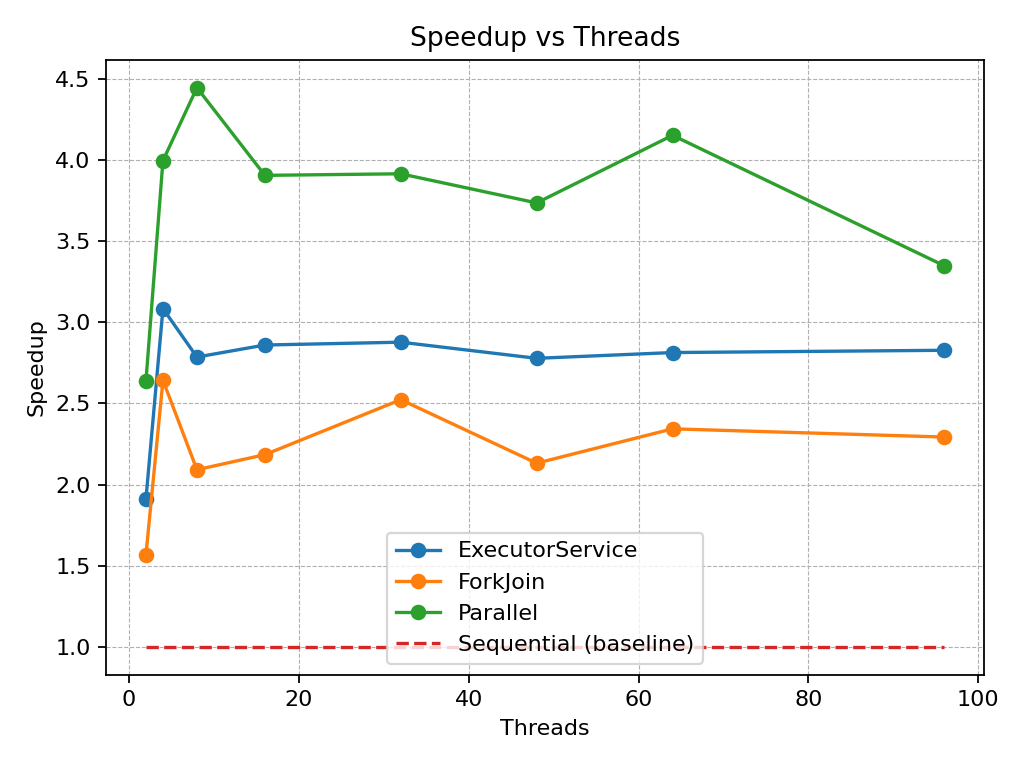
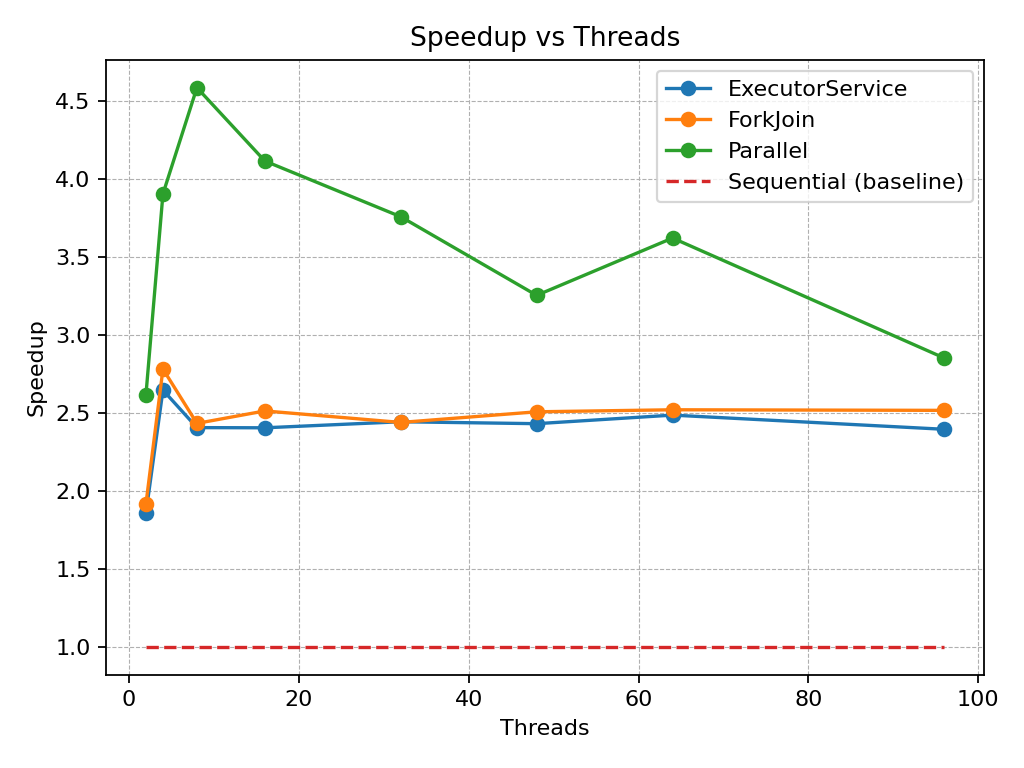
delete seqcutoff

diff --git a/lab2-skel/src/ForkJoinPoolSort.java b/lab2-skel/src/ForkJoinPoolSort.java
@@ -9,7 +9,6 @@ import java.util.concurrent.ForkJoinWorkerThread;
 public class ForkJoinPoolSort implements Sorter {
         public final int threads;
         private final ForkJoinPool pool;
-        private static final int SEQ_CUTOFF = 65536;
 
         public ForkJoinPoolSort(int threads) {
                 this.threads = Math.max(1, threads);
@@ -33,12 +32,19 @@ public class ForkJoinPoolSort implements Sorter {
         @Override
         public void sort(int[] arr) {
                 if (arr == null || arr.length <= 1) return;
-                pool.invoke(new Worker(arr, 0, arr.length - 1));
+                int d = floorLog2(threads);
+                pool.invoke(new Worker(arr, 0, arr.length - 1, d));
         }
 
         @Override
         public int getThreads() {
                 return threads;
+        }
+
+        private int floorLog2(int n) {
+                int lg = 0;
+                while ((n >>= 1) > 0) ++lg;
+                return lg;
         }
 
         private void mergesort(int[] arr, int left, int right)
@@ -85,29 +91,28 @@ public class ForkJoinPoolSort implements Sorter {
                 private final int[] arr;
                 private final int left;
                 private final int right;
+                private final int depth;
 
-                Worker(int[] arr, int left, int right) {
+                Worker(int[] arr, int left, int right, int depth) {
                         this.arr = arr;
                         this.left = left;
                         this.right = right;
+                        this.depth = depth;
                 }
 
                 @Override
                 protected void compute() {
-                        int len = right - left + 1;
-                        if (len <= 1) return;
+                        if (right <= left) return;
 
-                        if (len <= SEQ_CUTOFF) {
+                        if (depth == 0) {
                                 mergesort(arr, left, right);
                                 return;
                         }
 
                         int mid = left + (right - left) / 2;
-                        Worker leftTask = new Worker(arr, left, mid);
-                        Worker rightTask = new Worker(arr, mid + 1, right);
-                        // fork both and wait
-                        invokeAll(leftTask, rightTask);
-                        // merge after both half are sorted
+                        Worker a = new Worker(arr, left, mid, depth - 1);
+                        Worker b = new Worker(arr, mid + 1, right, depth - 1);
+                        invokeAll(a, b);
                         merge(arr, left, mid, right);
                 }
         }

diff --git a/lab2-skel/src/ExecutorServiceSort.java b/lab2-skel/src/ExecutorServiceSort.java
@@ -1,7 +1,3 @@
-/**
- * Sort using Java's ExecutorService.
- */
-
 import java.util.concurrent.ExecutorService;
 import java.util.concurrent.Executors;
 import java.util.concurrent.Future;
@@ -11,7 +7,6 @@ import java.util.concurrent.ThreadFactory;
 public class ExecutorServiceSort implements Sorter {
         public final int threads;
         private final ExecutorService pool;
-        private static final int SEQ_CUTOFF = 65536;
 
         public ExecutorServiceSort(int threads) {
                 this.threads = Math.max(1, threads);
@@ -35,7 +30,6 @@ public class ExecutorServiceSort implements Sorter {
                 try {
                         parallelMergeSort(arr, 0, arr.length - 1, maxDepth);
                 } catch (InterruptedException | ExecutionException e) {
-                        // Fallback: sequential mergesort
                         mergesort(arr, 0, arr.length - 1);
                 }
         }
@@ -53,7 +47,7 @@ public class ExecutorServiceSort implements Sorter {
         private void parallelMergeSort(int[] arr, int left, int right, int depth)
                         throws InterruptedException, ExecutionException {
                 if (right <= left) return;
-                if ((right - left + 1) <= SEQ_CUTOFF || depth == 0) {
+                if (depth == 0) {
                         mergesort(arr, left, right);
                         return;
                 }

diff --git a/lab2-skel/src/perf.py b/lab2-skel/src/perf.py
@@ -2,10 +2,10 @@ import re
 import matplotlib.pyplot as plt
 
 FILES = [
-    ("task1.out",       "Sequential"),
-    ("task3_65536.out", "ExecutorService"),
-    ("task4_65536.out", "ForkJoin"),
-    ("task5.out",       "Parallel"),
+    ("task1.out", "Sequential"),
+    ("task3.out", "ExecutorService"),
+    ("task4.out", "ForkJoin"),
+    ("task5.out", "Parallel"),
 ]
 
 OUT_DIR = "../data"

diff --git a/lab2-skel/REPORT.md b/lab2-skel/REPORT.md
@@ -51,11 +51,7 @@ Source files:
 
 - `ExecutorServiceSort.java`
 
-We implement a fixed thread pool with daemon workers to ensure the JVM exits cleanly after measurements, stop parallel recursion when either the depth limit $d=\lfloor\log_2 Thread\rfloor$ is reached or the subarray size $\le$ `SEQ_CUTOFF`. This keeps the merge logic identical to the sequential version and prevents task explosion.
-
-**Why `SEQ_CUTOFF = 65536`:** with $N=1{,}000{,}000$,
-- $S_4 = N/2^4 = 62{,}500 \approx 65{,}536$ → for $T=16$ we still use the deepest layer.
-- $S_5 = N/2^5 = 31{,}250 < 65{,}536$ → for $T\ge 32$ we stop one level earlier.
+We implement a fixed thread pool with daemon workers to ensure the JVM exits cleanly after measurements, stop parallel recursion when the depth limit $d=\lfloor\log_2 Thread\rfloor$ is reached. This keeps the merge logic identical to the sequential version and prevents task explosion.
 
 ## Task 4: ForkJoinPoolSort
 
@@ -63,7 +59,7 @@ Source files:
 
 - `ForkJoinPoolSort.java`
 
-We implement a parallel merge sort with a `ForkJoinPool` per subrange. Each task splits at the midpoint, runs both halves in parallel via `invokeAll`, and merges in the parent thread after the joins; small subproblems (size $\le C$) fall back to the sequential mergesort to avoid overhead.
+We implement a parallel merge sort with a `ForkJoinPool` per subrange. Each task splits at the midpoint, runs both halves in parallel via `invokeAll`, and merges in the parent thread after the joins; stop parallel recursion when the depth limit $d=\lfloor\log_2 Thread\rfloor$ is reached.
 
 ## Task 5: ParallelStreamSort
 
@@ -95,3 +91,14 @@ Out parameters:
 
 ![time plot](data/time_perf.png)
 ![speedup plot](data/speedup_perf.png)
+
+#### Are the performance gains/drops between different numbers of threads what you expected?
+
+
+
+#### What implementation ran the fastest/slowest? Was this in accordance with your expectations?
+
+
+#### What method was the easiest to implement?
+
+#### What method do you prefer?
